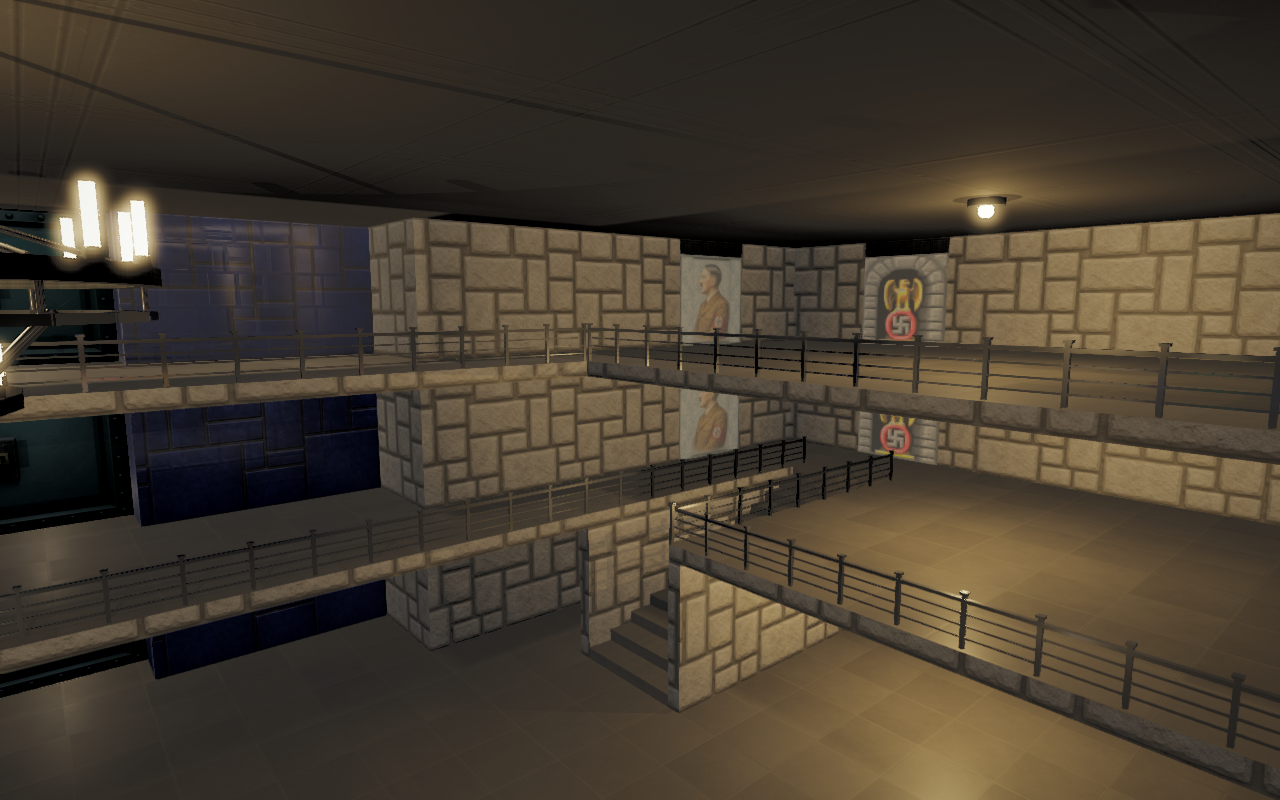
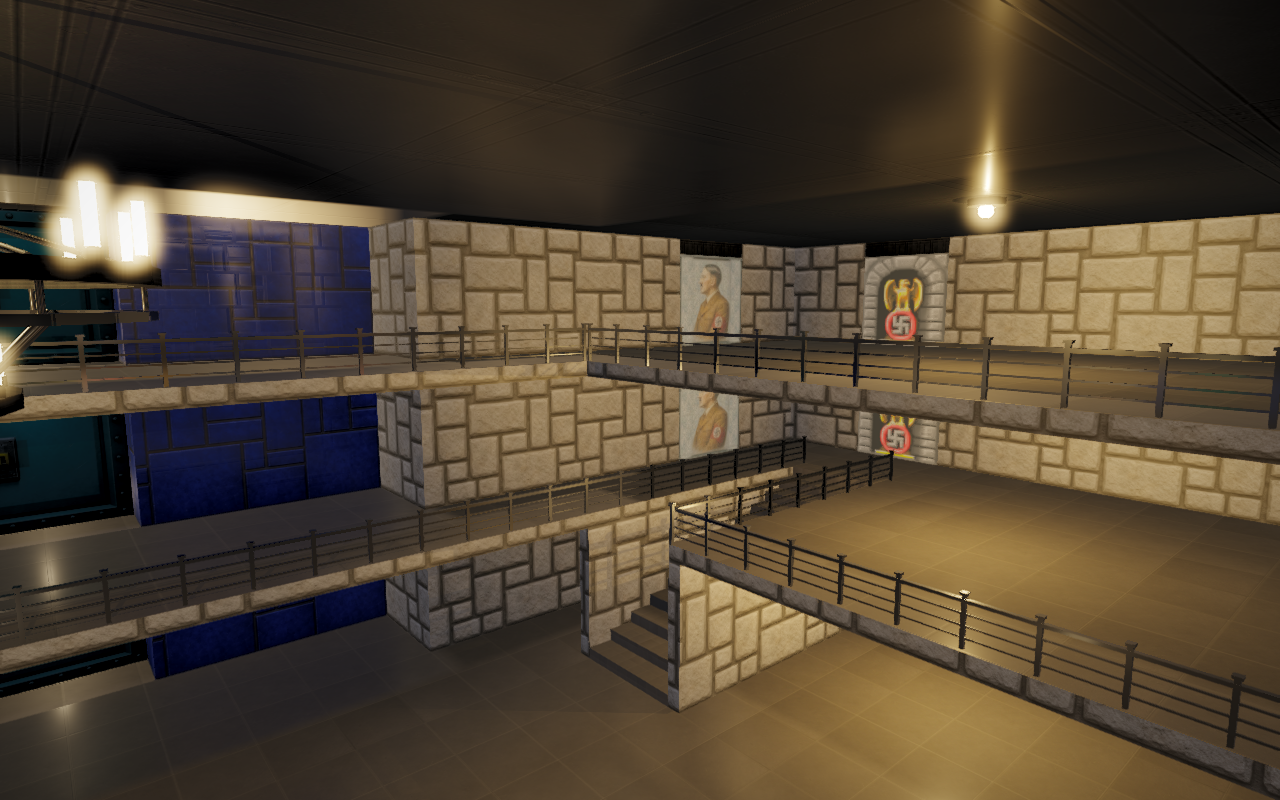
Tune WolfMini lighting to reference

diff --git a/Assets/WolfMini/Scripts/Level/WolfSectorMeshBuilder.cs b/Assets/WolfMini/Scripts/Level/WolfSectorMeshBuilder.cs
@@ -177,11 +177,14 @@ namespace WolfMini.Level
         private static void ApplyCinematicRenderSettings()
         {
             RenderSettings.ambientMode = AmbientMode.Trilight;
-            RenderSettings.ambientSkyColor = new Color(0.310f, 0.290f, 0.250f);
-            RenderSettings.ambientEquatorColor = new Color(0.185f, 0.195f, 0.220f);
-            RenderSettings.ambientGroundColor = new Color(0.215f, 0.220f, 0.235f);
-            RenderSettings.ambientIntensity = 0.74f;
-            RenderSettings.reflectionIntensity = 0.86f;
+            // Trilight split follows the reference frame: bright floor (sky
+            // term), luminous cobalt walls (equator term) and a near-black
+            // ceiling (ground term) that only the lamp pools light up.
+            RenderSettings.ambientSkyColor = new Color(0.340f, 0.315f, 0.270f);
+            RenderSettings.ambientEquatorColor = new Color(0.240f, 0.260f, 0.320f);
+            RenderSettings.ambientGroundColor = new Color(0.105f, 0.110f, 0.130f);
+            RenderSettings.ambientIntensity = 0.88f;
+            RenderSettings.reflectionIntensity = 1.0f;
             RenderSettings.reflectionBounces = 1;
             // Indoors there is no sky: surfaces outside every probe volume must
             // reflect darkness. The default procedural skybox fallback paints
@@ -354,7 +357,7 @@ namespace WolfMini.Level
                 return;
             }
 
-            Material material = ceiling ? materialLibrary.CeilingMaterial : materialLibrary.FloorMaterial;
+            Material material = ceiling ? GetPolishedCeilingMaterial() : GetPolishedFloorMaterial();
             if (material == null)
             {
                 return;
@@ -379,8 +382,72 @@ namespace WolfMini.Level
             renderer.sharedMaterial = material;
             renderer.shadowCastingMode = UnityEngine.Rendering.ShadowCastingMode.Off;
             renderer.receiveShadows = true;
-            renderer.reflectionProbeUsage = UnityEngine.Rendering.ReflectionProbeUsage.BlendProbesAndSkybox;
+            // The reference ceiling carries direct lamp streaks but does not
+            // mirror entire blue rooms. Keep probes on the polished floor and
+            // let point-light specular drive the ceiling response.
+            renderer.reflectionProbeUsage = ceiling
+                ? UnityEngine.Rendering.ReflectionProbeUsage.Off
+                : UnityEngine.Rendering.ReflectionProbeUsage.BlendProbesAndSkybox;
             renderer.lightProbeUsage = UnityEngine.Rendering.LightProbeUsage.BlendProbes;
+        }
+
+        private Material polishedFloorMaterial;
+        private Material polishedCeilingMaterial;
+
+        // Runtime copies give the receivers a controlled polished response
+        // without touching the authored .mat assets. The floor reads local
+        // probes; the ceiling is driven by direct lamp specular only.
+        private Material GetPolishedFloorMaterial()
+        {
+            if (polishedFloorMaterial != null)
+            {
+                return polishedFloorMaterial;
+            }
+
+            if (materialLibrary.FloorMaterial == null)
+            {
+                return null;
+            }
+
+            polishedFloorMaterial = new Material(materialLibrary.FloorMaterial)
+            {
+                name = "Wolf polished floor (runtime)",
+                hideFlags = HideFlags.DontSave
+            };
+            polishedFloorMaterial.DisableKeyword("_METALLICGLOSSMAP");
+            // Keep the floor predominantly dielectric: the reference reads as
+            // polished stone, with tight lamp streaks instead of tinted metal
+            // reflections. Direct lights and probes provide the response.
+            polishedFloorMaterial.SetFloat("_Glossiness", 0.84f);
+            polishedFloorMaterial.SetFloat("_GlossMapScale", 0.84f);
+            polishedFloorMaterial.SetFloat("_Metallic", 0f);
+            return polishedFloorMaterial;
+        }
+
+        private Material GetPolishedCeilingMaterial()
+        {
+            if (polishedCeilingMaterial != null)
+            {
+                return polishedCeilingMaterial;
+            }
+
+            if (materialLibrary.CeilingMaterial == null)
+            {
+                return null;
+            }
+
+            polishedCeilingMaterial = new Material(materialLibrary.CeilingMaterial)
+            {
+                name = "Wolf polished ceiling (runtime)",
+                hideFlags = HideFlags.DontSave
+            };
+            polishedCeilingMaterial.DisableKeyword("_METALLICGLOSSMAP");
+            // Bright, narrow specular pools around each fixture on an otherwise
+            // dark ceiling; near-zero metallic avoids broad blue wall bands.
+            polishedCeilingMaterial.SetFloat("_Glossiness", 0.82f);
+            polishedCeilingMaterial.SetFloat("_GlossMapScale", 0.82f);
+            polishedCeilingMaterial.SetFloat("_Metallic", 0f);
+            return polishedCeilingMaterial;
         }
 
         /// <summary>Floor and ceiling quads over one world-space rectangle, with continuous world-anchored module UVs.</summary>
@@ -1927,7 +1994,7 @@ namespace WolfMini.Level
             spill.transform.SetParent(parent, true);
             spill.transform.position = new Vector3(basePosition.x, ceilingY - 0.02f, basePosition.z);
             spill.transform.rotation = Quaternion.Euler(90f, 0f, 0f);
-            float diameter = (warm ? 3.8f : 3.2f) * WorldScale;
+            float diameter = (warm ? 4.4f : 3.8f) * WorldScale;
             spill.transform.localScale = new Vector3(diameter, diameter, 1f);
 
             Renderer renderer = spill.GetComponent<Renderer>();
@@ -1936,6 +2003,10 @@ namespace WolfMini.Level
             renderer.reflectionProbeUsage = UnityEngine.Rendering.ReflectionProbeUsage.Off;
             renderer.lightProbeUsage = UnityEngine.Rendering.LightProbeUsage.Off;
             renderer.shadowCastingMode = UnityEngine.Rendering.ShadowCastingMode.Off;
+            BoostOverlay(
+                renderer,
+                warm ? new Color(1f, 0.82f, 0.58f, 0.38f) : new Color(0.82f, 0.90f, 1f, 0.34f),
+                warm ? new Color(0.42f, 0.30f, 0.16f, 1f) : new Color(0.18f, 0.24f, 0.34f, 1f));
             DestroySafely(spill.GetComponent<Collider>());
         }
 
@@ -1949,8 +2020,8 @@ namespace WolfMini.Level
             if (TryFindSceneSurface(anchor, Vector3.down, 24f * WorldScale, SurfaceTarget.Floor, out RaycastHit floorHit))
             {
                 float floorWidth = (warm ? 3.8f : 3.3f) * WorldScale;
-                float floorHeight = (warm ? 2.7f : 2.35f) * WorldScale;
-                CreateBoundedFloorReflectionQuad(
+                float floorHeight = (warm ? 3.0f : 2.6f) * WorldScale;
+                Renderer floorPool = CreateBoundedFloorReflectionQuad(
                     parent,
                     $"{name} floor reflection {suffix}",
                     floorHit.point + floorHit.normal * 0.026f,
@@ -1958,18 +2029,22 @@ namespace WolfMini.Level
                     floorMaterial,
                     floorWidth,
                     floorHeight);
+                BoostOverlay(
+                    floorPool,
+                    warm ? new Color(1f, 0.87f, 0.68f, 0.48f) : new Color(0.82f, 0.90f, 1f, 0.42f),
+                    warm ? new Color(0.20f, 0.13f, 0.05f, 1f) : new Color(0.07f, 0.11f, 0.16f, 1f));
             }
 
             Vector3 wallOrigin = anchor - Vector3.up * 0.34f * WorldScale;
             Vector3[] directions = { Vector3.forward, Vector3.back, Vector3.left, Vector3.right };
             float maxDistance = (warm ? 7.2f : 6.4f) * WorldScale;
-            float wallWidth = (warm ? 4.0f : 3.5f) * WorldScale;
-            float wallHeight = (warm ? 1.9f : 1.65f) * WorldScale;
+            float wallWidth = (warm ? 4.2f : 3.6f) * WorldScale;
+            float wallHeight = (warm ? 2.0f : 1.8f) * WorldScale;
             for (int i = 0; i < directions.Length; i++)
             {
                 if (TryFindSceneSurface(wallOrigin, directions[i], maxDistance, SurfaceTarget.Wall, out RaycastHit wallHit))
                 {
-                    CreateSurfaceReflectionQuad(
+                    Renderer wallWash = CreateSurfaceReflectionQuad(
                         parent,
                         $"{name} wall reflection {suffix}",
                         wallHit.point + wallHit.normal * 0.024f,
@@ -1978,6 +2053,10 @@ namespace WolfMini.Level
                         wallMaterial,
                         wallWidth,
                         wallHeight);
+                    BoostOverlay(
+                        wallWash,
+                        warm ? new Color(1f, 0.85f, 0.66f, 0.28f) : new Color(0.80f, 0.89f, 1f, 0.24f),
+                        warm ? new Color(0.08f, 0.052f, 0.022f, 1f) : new Color(0.026f, 0.050f, 0.078f, 1f));
                 }
             }
         }
@@ -2008,7 +2087,7 @@ namespace WolfMini.Level
                 Color warm = Color.Lerp(WolfLevelContent.WarmLampColor, Color.white, 0.46f);
                 Color cool = Color.Lerp(WolfLevelContent.CoolLampColor, Color.white, 0.58f);
 
-                CreateBoundedFloorReflectionQuad(
+                Renderer atriumPool = CreateBoundedFloorReflectionQuad(
                     group.transform,
                     $"atrium floor reflection {index:00}",
                     new Vector3(center.x, opening.bottomY + 0.028f, center.z),
@@ -2016,13 +2095,17 @@ namespace WolfMini.Level
                     materialLibrary.LampFloorReflectionWarmMaterial,
                     width,
                     depth);
+                BoostOverlay(
+                    atriumPool,
+                    new Color(1f, 0.90f, 0.76f, 0.44f),
+                    new Color(0.14f, 0.09f, 0.036f, 1f));
 
                 Light lower = CreatePointLight(
                     group.transform,
                     $"atrium lower fill {index:00}",
                     new Vector3(center.x, opening.bottomY + 1.25f * WorldScale, center.z),
                     warm,
-                    0.34f,
+                    0.42f,
                     radius,
                     LightShadows.Soft);
                 lower.shadowStrength = 0.24f;
@@ -2033,7 +2116,7 @@ namespace WolfMini.Level
                     $"atrium vertical glow {index:00}",
                     new Vector3(center.x, Mathf.Lerp(opening.bottomY, opening.topY, 0.52f), center.z),
                     Color.Lerp(warm, cool, 0.35f),
-                    0.12f,
+                    0.16f,
                     radius * 0.82f,
                     LightShadows.None);
 
@@ -2042,7 +2125,7 @@ namespace WolfMini.Level
                     $"atrium upper fill {index:00}",
                     new Vector3(center.x, opening.topY + 1.35f * WorldScale, center.z),
                     cool,
-                    0.18f,
+                    0.24f,
                     radius * 0.68f,
                     LightShadows.Soft);
                 upper.shadowStrength = 0.16f;
@@ -2051,7 +2134,7 @@ namespace WolfMini.Level
             }
         }
 
-        private void CreateBoundedFloorReflectionQuad(
+        private Renderer CreateBoundedFloorReflectionQuad(
             Transform parent,
             string name,
             Vector3 position,
@@ -2077,13 +2160,13 @@ namespace WolfMini.Level
             float isolatedHeight = positiveZ + negativeZ;
             if (isolatedWidth < MinimumReflectionSize || isolatedHeight < MinimumReflectionSize)
             {
-                return;
+                return null;
             }
 
             Vector3 isolatedCenter = position +
                 xAxis * ((positiveX - negativeX) * 0.5f) +
                 zAxis * ((positiveZ - negativeZ) * 0.5f);
-            CreateSurfaceReflectionQuad(parent, name, isolatedCenter, safeNormal, zAxis, material, isolatedWidth, isolatedHeight);
+            return CreateSurfaceReflectionQuad(parent, name, isolatedCenter, safeNormal, zAxis, material, isolatedWidth, isolatedHeight);
         }
 
         private float FindReflectionBoundaryExtent(Vector3 center, Vector3 normal, Vector3 direction, float requestedExtent)
@@ -2146,7 +2229,7 @@ namespace WolfMini.Level
                 objectName.Contains("spill", System.StringComparison.OrdinalIgnoreCase);
         }
 
-        private void CreateSurfaceReflectionQuad(
+        private Renderer CreateSurfaceReflectionQuad(
             Transform parent,
             string name,
             Vector3 position,
@@ -2158,7 +2241,7 @@ namespace WolfMini.Level
         {
             if (material == null)
             {
-                return;
+                return null;
             }
 
             GameObject reflection = GameObject.CreatePrimitive(PrimitiveType.Quad);
@@ -2185,14 +2268,31 @@ namespace WolfMini.Level
             renderer.lightProbeUsage = UnityEngine.Rendering.LightProbeUsage.Off;
             renderer.shadowCastingMode = UnityEngine.Rendering.ShadowCastingMode.Off;
             DestroySafely(reflection.GetComponent<Collider>());
+            return renderer;
+        }
+
+        // Per-renderer boost over the shared overlay materials: the polished
+        // reference needs far hotter light pools and washes than the authored
+        // assets provide, and a property block keeps the .mat files untouched.
+        private static void BoostOverlay(Renderer renderer, Color color, Color emission)
+        {
+            if (renderer == null)
+            {
+                return;
+            }
+
+            var properties = new MaterialPropertyBlock();
+            properties.SetColor("_Color", color);
+            properties.SetColor("_EmissionColor", emission);
+            renderer.SetPropertyBlock(properties);
         }
 
         private void AddLampLightRig(Transform parent, string name, Vector3 basePosition, float ceilingY, bool warm)
         {
             // A coincident unshadowed component approximates first-bounce light
             // from the visible bulb without introducing a sourceless fill.
-            float primaryIntensity = warm ? 2.15f : 1.90f;
-            float bounceIntensity = warm ? 0.32f : 0.29f;
+            float primaryIntensity = warm ? 2.65f : 2.35f;
+            float bounceIntensity = warm ? 0.42f : 0.38f;
             Color color = warm
                 ? WolfLevelContent.WarmLampColor
                 : Color.Lerp(WolfLevelContent.CoolLampColor, WolfLevelContent.WarmLampColor, 0.18f);
@@ -2335,7 +2435,7 @@ namespace WolfMini.Level
                 $"Atrium chandelier light {center.x:0},{center.y:0}",
                 lightPosition,
                 lightColor,
-                1.85f,
+                2.15f,
                 lightRange,
                 LightShadows.Soft);
             primary.shadowStrength = PrimaryShadowStrength;
@@ -2349,7 +2449,7 @@ namespace WolfMini.Level
                 $"Atrium chandelier ceiling bounce {center.x:0},{center.y:0}",
                 lightPosition,
                 lightColor,
-                0.36f,
+                0.44f,
                 lightRange,
                 LightShadows.None);
         }
@@ -2547,9 +2647,9 @@ namespace WolfMini.Level
             probe.size = size;
             probe.resolution = resolution;
             probe.hdr = true;
-            // Above 1 the boosted reflections read as a wet floor and blow out
-            // under the lamps; 1 keeps them at the captured brightness.
-            probe.intensity = 1f;
+            // A modest probe boost keeps polished surfaces alive without
+            // flattening the authored colors into mirror-like room bands.
+            probe.intensity = 0.95f;
             probe.importance = importance;
             probe.blendDistance = ReflectionProbeBlendDistance;
             probe.shadowDistance = 26f * WorldScale;

diff --git a/Assets/Scripts/WolfPerformanceSettings.cs b/Assets/Scripts/WolfPerformanceSettings.cs
@@ -22,22 +22,22 @@ namespace HelloWorldRoom
         [SerializeField, Range(0.0312f, 0.333f)] private float postAntialiasingEdgeThreshold = 0.11f;
         [SerializeField, Range(0.0156f, 0.0833f)] private float postAntialiasingEdgeThresholdMin = 0.0312f;
         [SerializeField] private bool enableCinematicPostProcess = true;
-        [SerializeField, Range(0.5f, 2.0f)] private float cinematicExposure = 0.94f;
-        [SerializeField, Range(0.8f, 1.6f)] private float cinematicContrast = 1.06f;
-        [SerializeField, Range(0f, 0.18f)] private float cinematicBlackPoint = 0.002f;
-        [SerializeField, Range(0.7f, 1.4f)] private float cinematicSaturation = 1.04f;
-        [SerializeField, Range(0f, 0.45f)] private float cinematicLocalContrast = 0.09f;
+        [SerializeField, Range(0.5f, 2.0f)] private float cinematicExposure = 1.05f;
+        [SerializeField, Range(0.8f, 1.6f)] private float cinematicContrast = 1.16f;
+        [SerializeField, Range(0f, 0.18f)] private float cinematicBlackPoint = 0.008f;
+        [SerializeField, Range(0.7f, 1.4f)] private float cinematicSaturation = 1.20f;
+        [SerializeField, Range(0f, 0.45f)] private float cinematicLocalContrast = 0.16f;
         [SerializeField, Range(0.5f, 3.5f)] private float cinematicLocalRadius = 1.7f;
-        [SerializeField, Range(0f, 0.18f)] private float cinematicShadowLift = 0.13f;
-        [SerializeField, Range(0.6f, 2.5f)] private float cinematicBloomThreshold = 1.15f;
-        [SerializeField, Range(0f, 1.5f)] private float cinematicBloomIntensity = 0.28f;
-        [SerializeField, Range(0f, 1f)] private float cinematicBloomKnee = 0.46f;
-        [SerializeField, Range(0.7f, 2.4f)] private float cinematicBloomScatter = 1.35f;
+        [SerializeField, Range(0f, 0.18f)] private float cinematicShadowLift = 0.075f;
+        [SerializeField, Range(0.6f, 2.5f)] private float cinematicBloomThreshold = 1.05f;
+        [SerializeField, Range(0f, 1.5f)] private float cinematicBloomIntensity = 0.46f;
+        [SerializeField, Range(0f, 1f)] private float cinematicBloomKnee = 0.42f;
+        [SerializeField, Range(0.7f, 2.4f)] private float cinematicBloomScatter = 1.25f;
         [SerializeField, Range(1, 5)] private int cinematicBloomIterations = 3;
         [SerializeField, Range(1, 4)] private int cinematicBloomDownsample = 2;
-        [SerializeField, Range(0f, 0.35f)] private float cinematicVignette = 0.07f;
-        [SerializeField, Range(0f, 0.35f)] private float cinematicWarmHighlights = 0.055f;
-        [SerializeField, Range(0f, 0.2f)] private float cinematicCoolShadows = 0.045f;
+        [SerializeField, Range(0f, 0.35f)] private float cinematicVignette = 0.075f;
+        [SerializeField, Range(0f, 0.35f)] private float cinematicWarmHighlights = 0.095f;
+        [SerializeField, Range(0f, 0.2f)] private float cinematicCoolShadows = 0.055f;
 
         private void Awake()
         {
